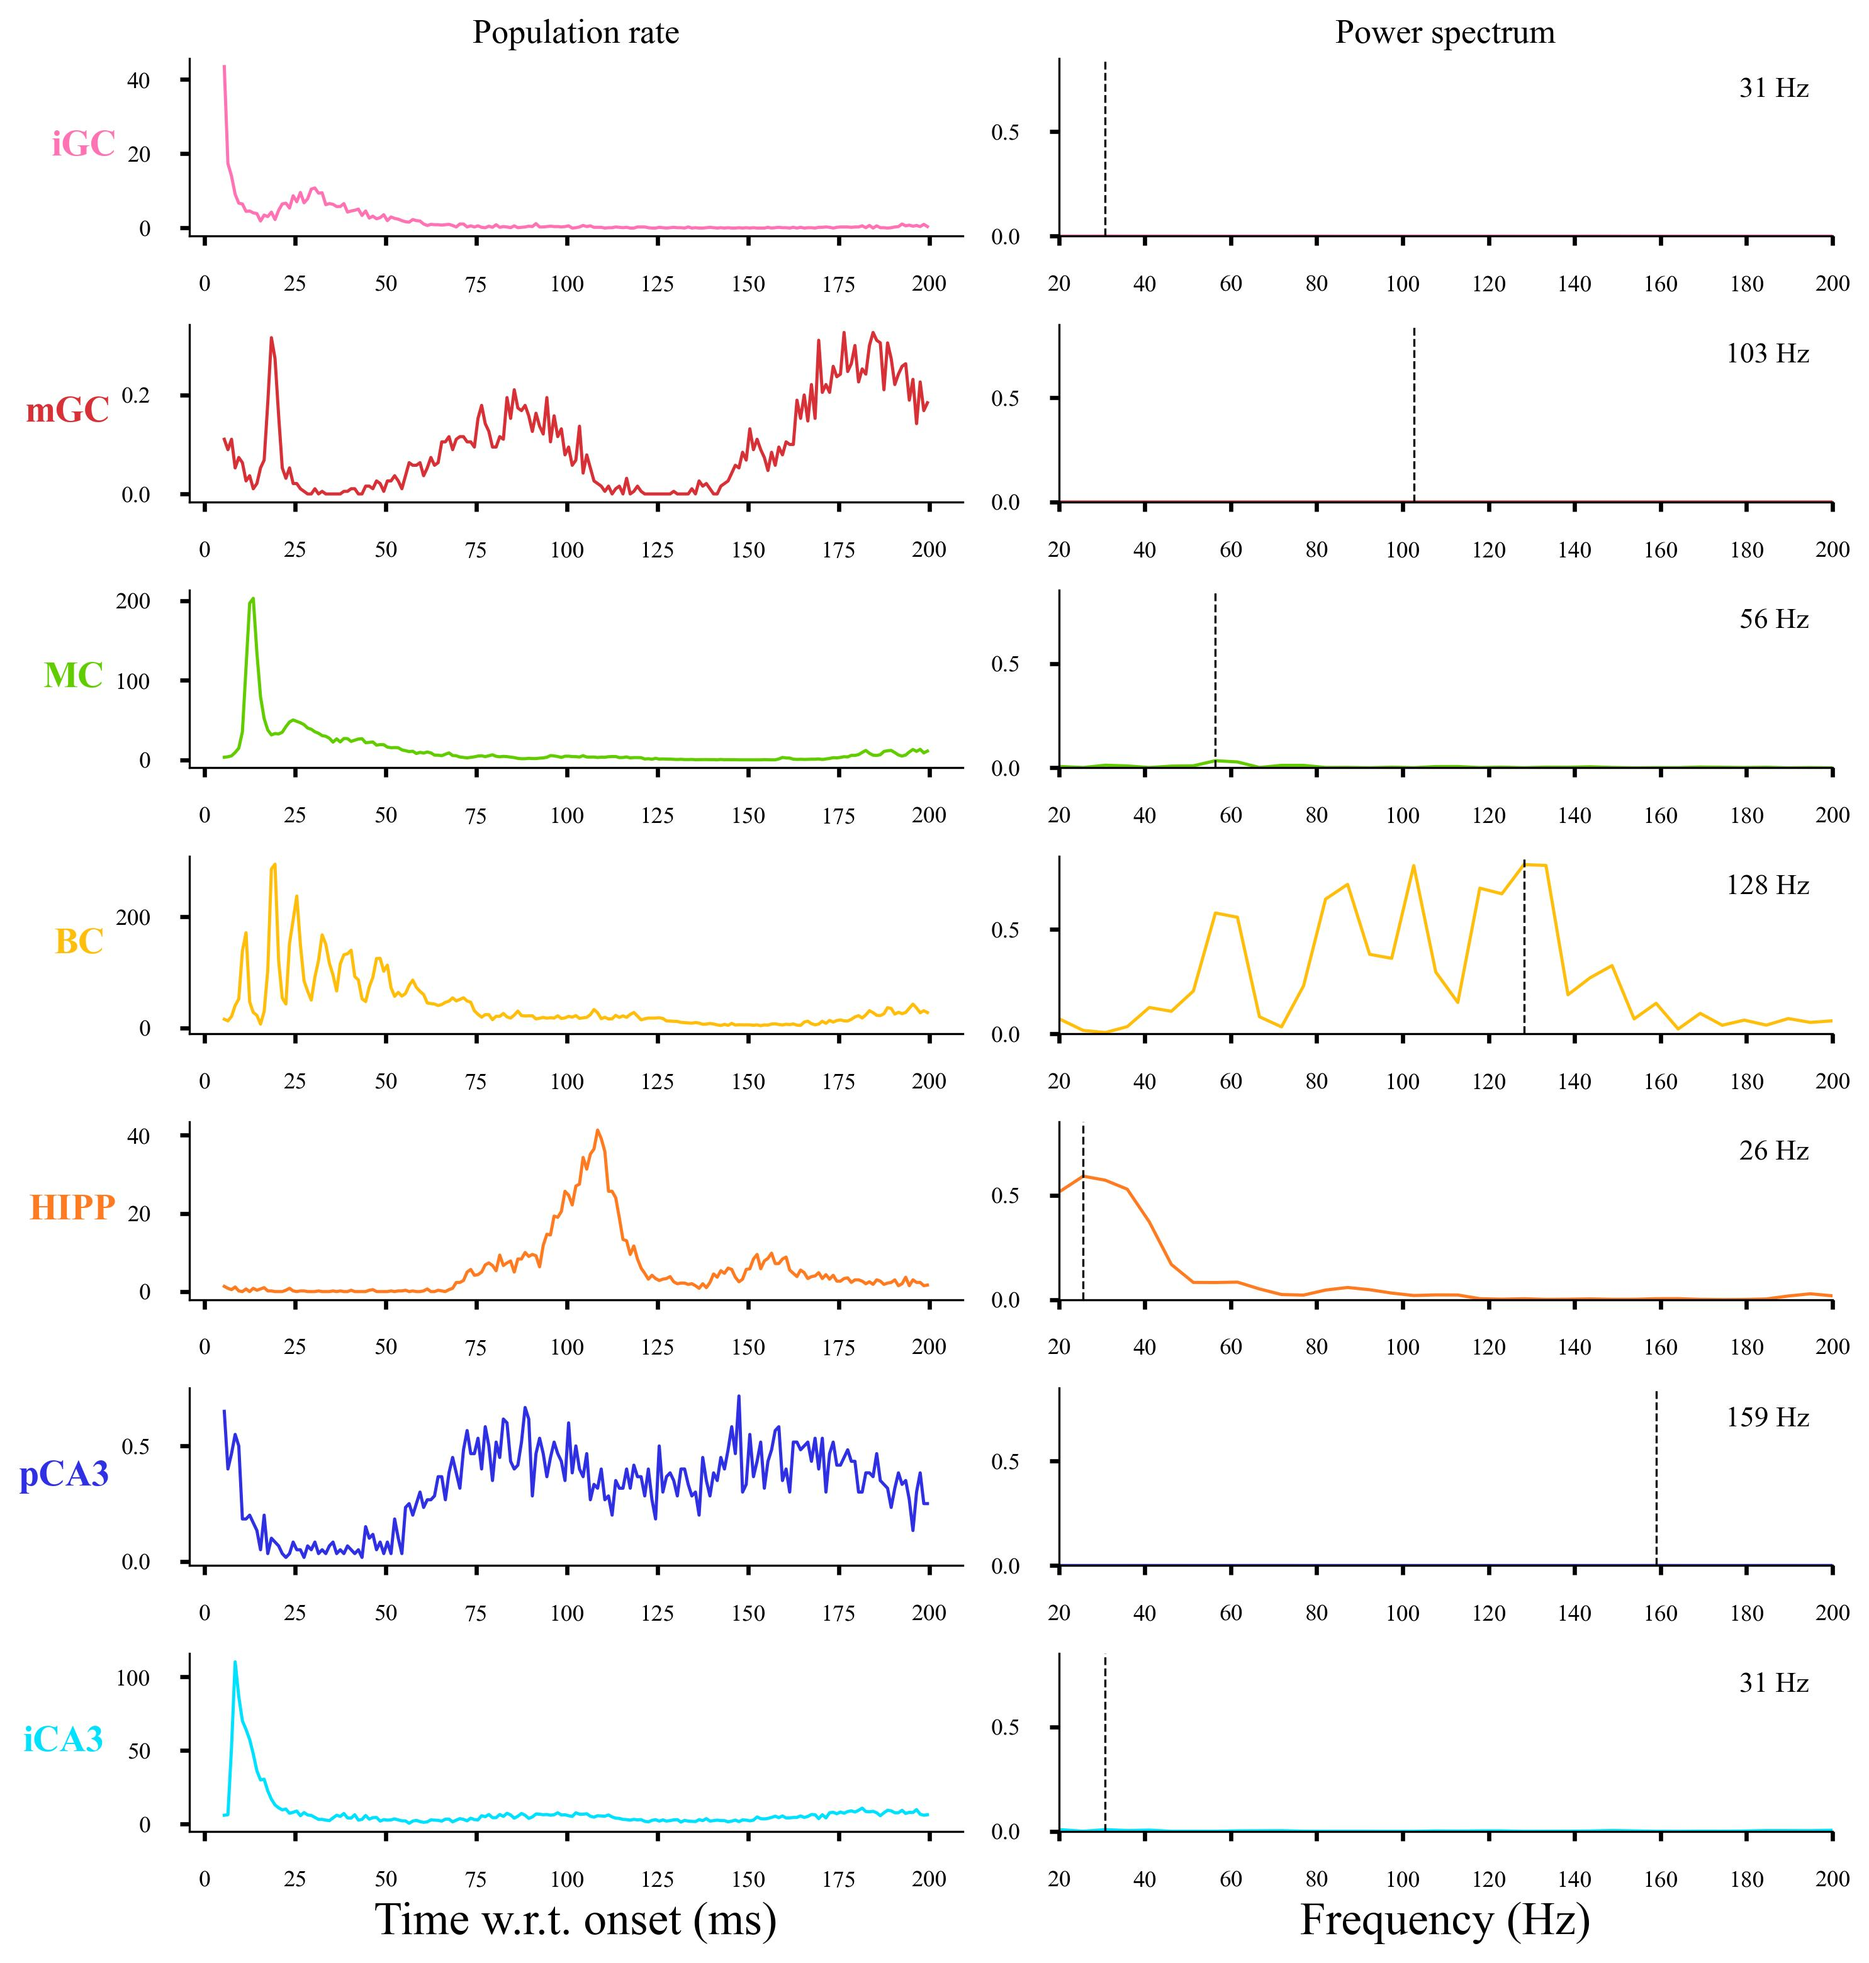
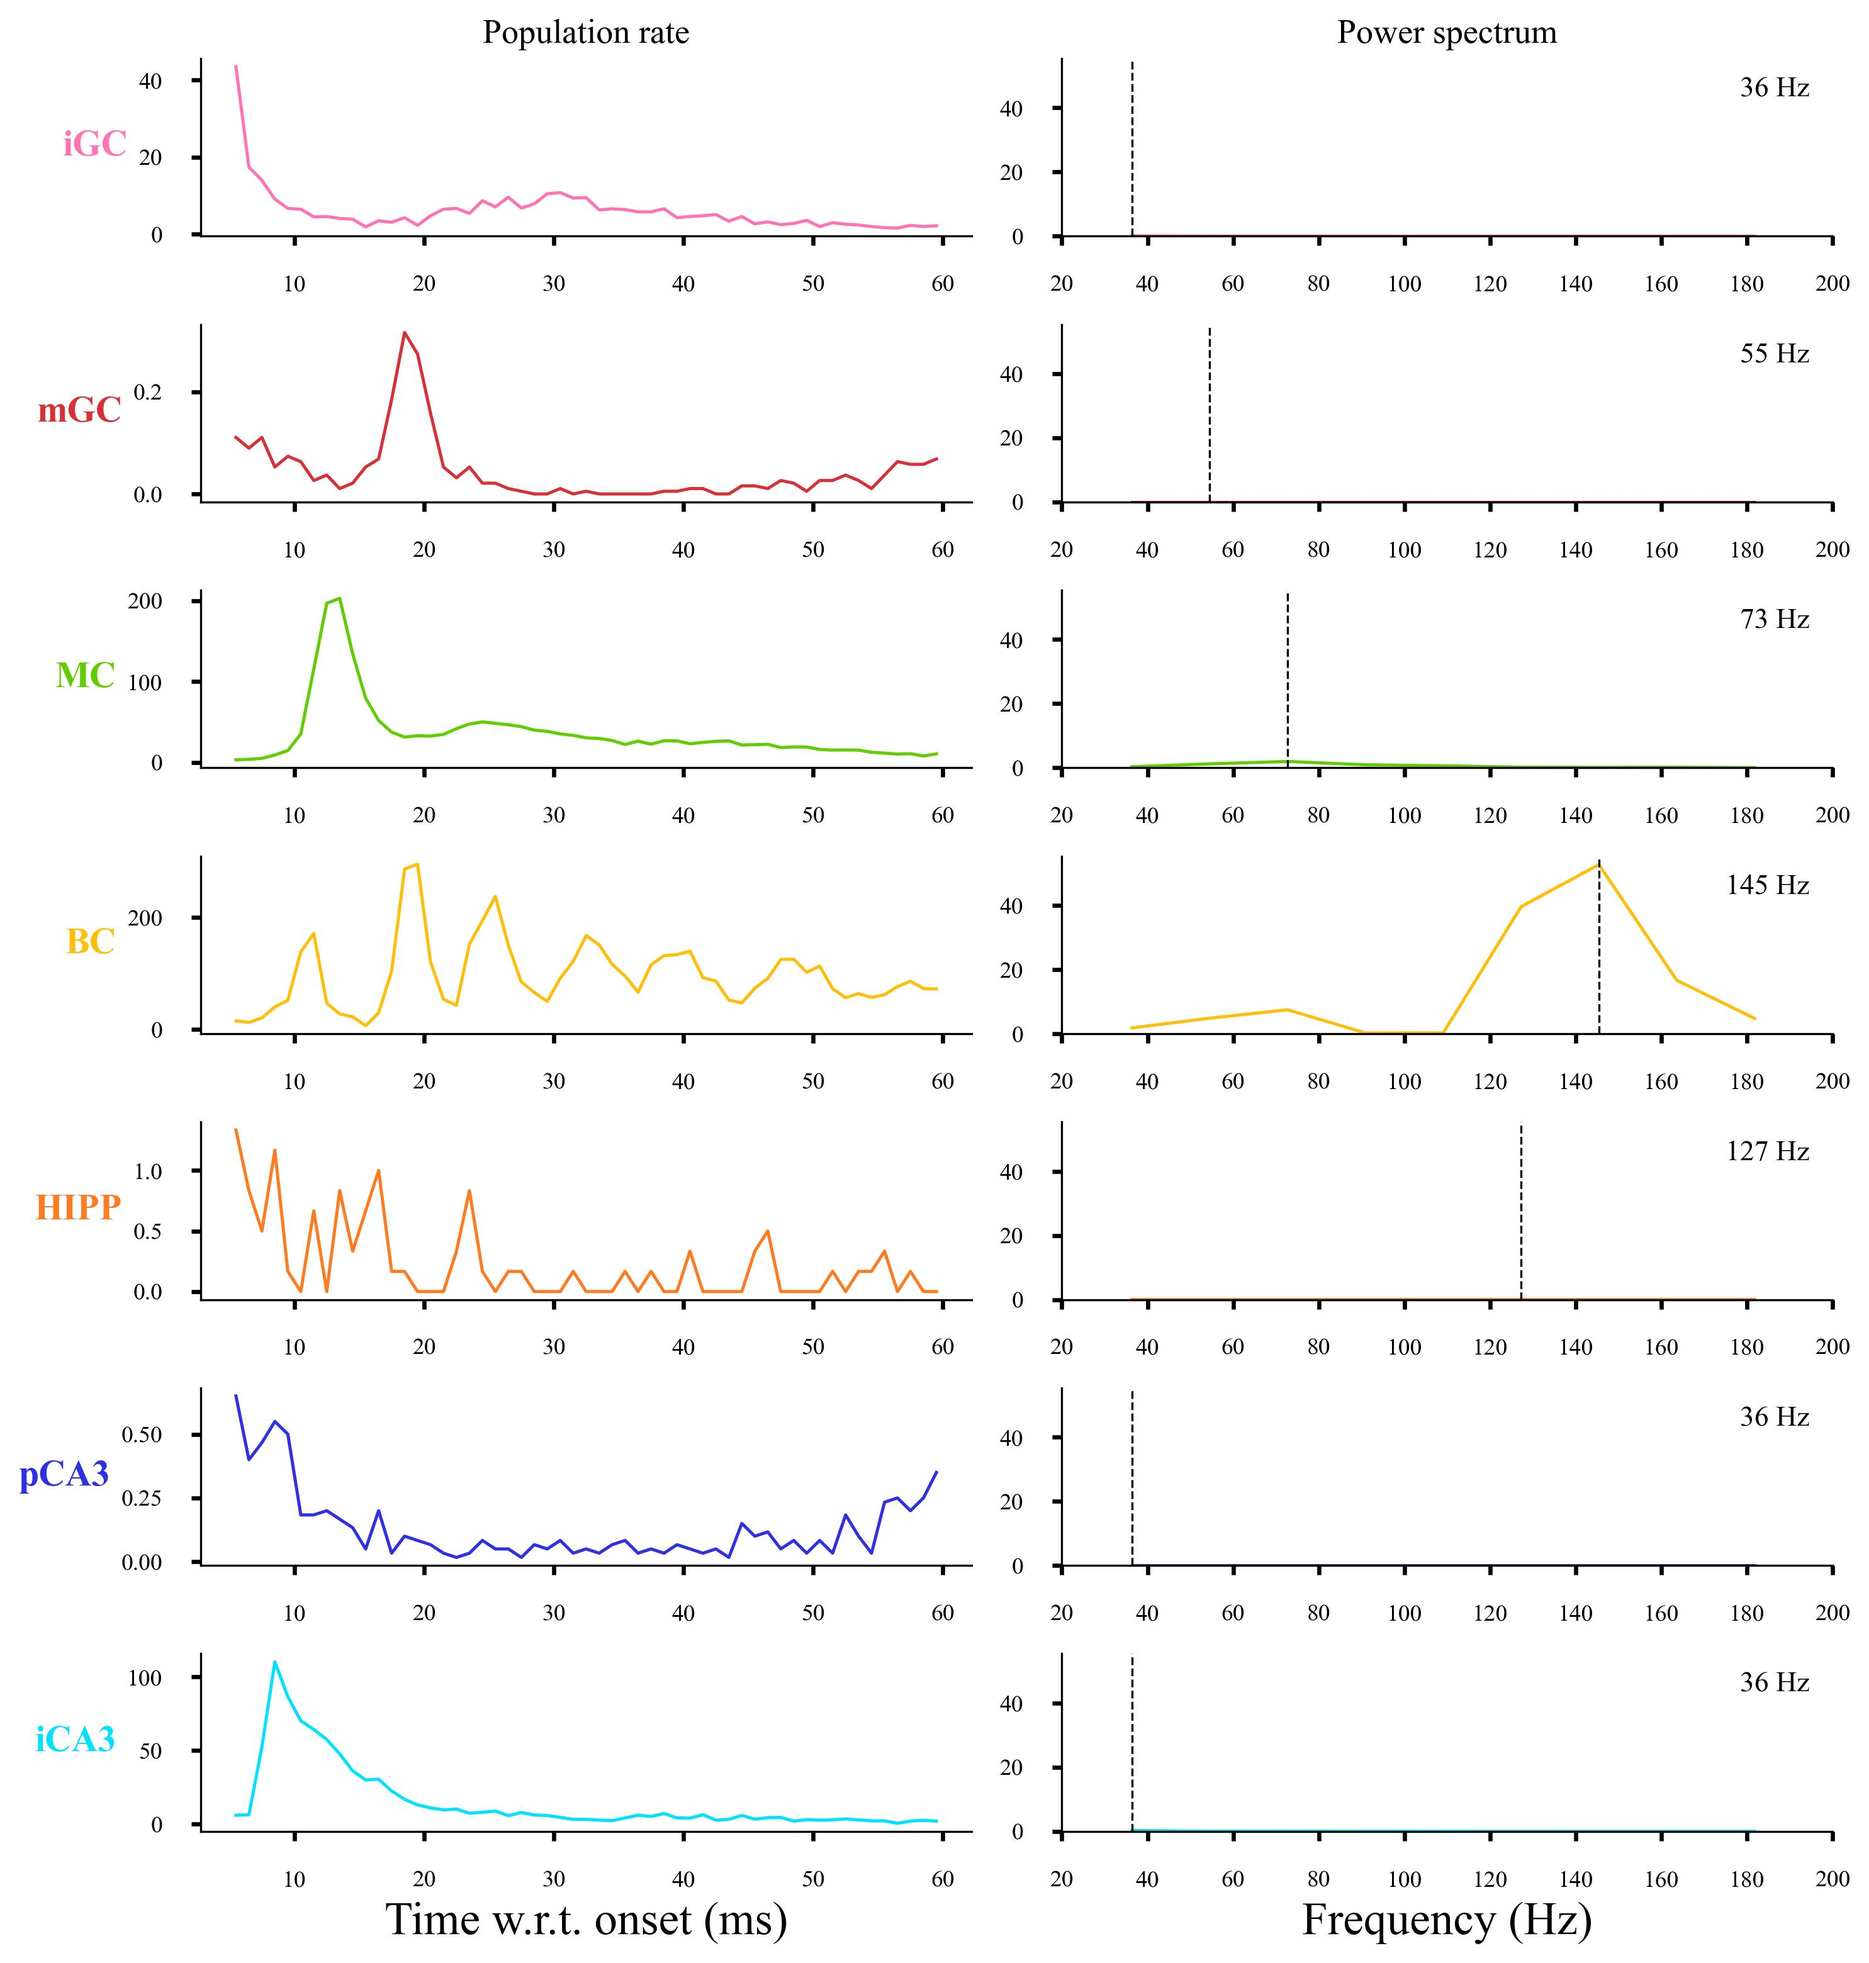
freq

diff --git a/scripts/data/optogenetics_frequency.py b/scripts/data/optogenetics_frequency.py
@@ -21,7 +21,7 @@ DURATION_MS   = 30.0 if NEG else 5.0
 BREAK_TIME_MS = 300.0
 
 ANALYSIS_START_MS = DURATION_MS
-ANALYSIS_END_MS   = 200.0
+ANALYSIS_END_MS   = 60.0
 
 BIN_SIZE_MS  = 1.0
 ENVELOPE_MS  = 8.0
